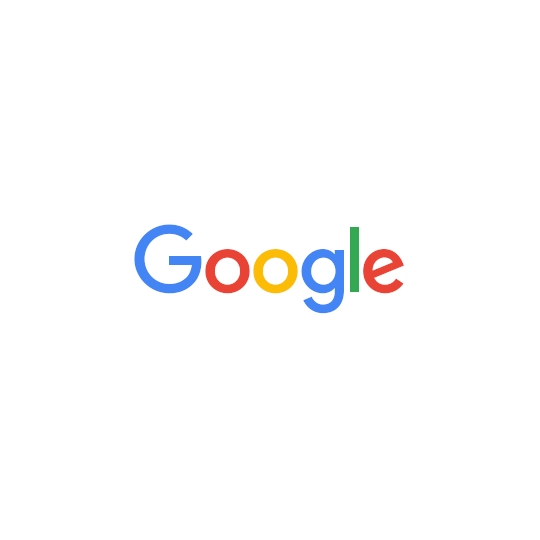
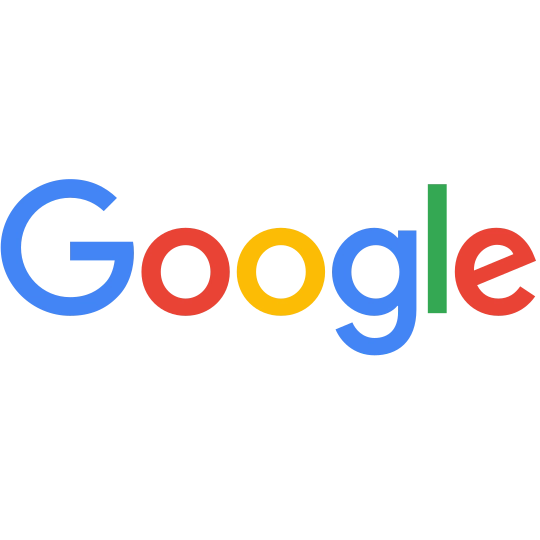
images unification

Changed region(s): [[0.0, 0.3259, 1.0, 0.6815]]

diff --git a/index.html b/index.html
@@ -46,7 +46,7 @@
           <picture>
             <source type="image/webp" srcset="./images/career-gcp.webp">
             <source type="image/png" srcset="./images/career-gcp.png">
-            <img src="./images/career-gcp.png" alt="Google Cloud Platform logo" />
+            <img src="./images/career-gcp.png" alt="Google Cloud Platform logo" class="padded"/>
           </picture>
         </div>
         <div class="col-md-8 career-description">
@@ -58,7 +58,7 @@
             <small>December 2020</small>
           </h4>
           <p>
-            Google is an engineering company. Their cloud is built by engineers for engineers. That always be more appealing to me than even greatest set of features from other providers.
+            Google is an engineering company. Their cloud is built by engineers for engineers. That always will be more appealing to me than even greatest set of features from other providers.
           </p>
           <p>
             My cloud journey continues 🌊
@@ -71,7 +71,7 @@
           <picture>
             <source type="image/webp" srcset="./images/career-aws.webp">
             <source type="image/png" srcset="./images/career-aws.png">
-            <img src="./images/career-aws.png" alt="Amazon Web Services logo" />
+            <img src="./images/career-aws.png" alt="Amazon Web Services logo"  class="padded"/>
           </picture>
         </div>
         <div class="col-md-8 career-description">
@@ -130,7 +130,7 @@
           <picture>
             <source type="image/webp" srcset="./images/career-quantic.webp">
             <source type="image/png" srcset="./images/career-quantic.png">
-            <img src="./images/career-quantic.png" alt="Quantic School of Business and Technology logo" />
+            <img src="./images/career-quantic.png" alt="Quantic School of Business and Technology logo" class="padded"/>
           </picture>
         </div>
         <div class="col-md-8 career-description">
@@ -154,7 +154,7 @@
           <picture>
             <source type="image/webp" srcset="./images/career-scrumorg.webp">
             <source type="image/png" srcset="./images/career-scrumorg.png">
-            <img src="./images/career-scrumorg.png" alt="Scrum.org logo" />
+            <img src="./images/career-scrumorg.png" alt="Scrum.org logo"  class="padded"/>
           </picture>
         </div>
         <div class="col-md-8 career-description">
@@ -223,7 +223,7 @@
           <picture>
             <source type="image/webp" srcset="./images/career-braciaprzykawie.webp">
             <source type="image/png" srcset="./images/career-braciaprzykawie.png">
-            <img src="./images/career-braciaprzykawie.png" alt="Bracia przy kawie logo" />
+            <img src="./images/career-braciaprzykawie.png" alt="Bracia przy kawie logo"  class="padded"/>
           </picture>
         </div>
         <div class="col-md-8 career-description">
@@ -271,7 +271,7 @@
           </h4>
           <p>Software, infrastructure, IoT, communication, gathering and analysing data. Managed processes from initialisation through production to maintenance.</p>
           <p>
-            Created whole Smart Station from the scratch.👨🏻🔧</p>
+            Created new interactive kiosk from the scratch.👨🏻🔧</p>
           <ul class="hashtag-list">
             <li>#SmartCity</li>
             <li>#IoT</li>
@@ -288,7 +288,7 @@
           <picture>
             <source type="image/webp" srcset="./images/career-oktawave.webp">
             <source type="image/png" srcset="./images/career-oktawave.png">
-            <img src="./images/career-oktawave.png" alt="Oktawave logo" />
+            <img src="./images/career-oktawave.png" alt="Oktawave logo"/>
           </picture>
         </div>
         <div class="col-md-8 career-description">
@@ -331,7 +331,7 @@
           <picture>
             <source type="image/webp" srcset="./images/career-langlion.webp">
             <source type="image/png" srcset="./images/career-langlion.png">
-            <img src="./images/career-langlion.png" alt="LangLion logo" />
+            <img src="./images/career-langlion.png" alt="LangLion logo" class="padded"/>
           </picture>
         </div>
         <div class="col-md-8 career-description">
@@ -392,7 +392,7 @@
           <picture>
             <source type="image/webp" srcset="./images/career-google.webp">
             <source type="image/png" srcset="./images/career-google.png">
-            <img src="./images/career-google.png" alt="Google logo" />
+            <img src="./images/career-google.png" alt="Google logo"  class="padded"/>
           </picture>
         </div>
         <div class="col-md-8 career-description">
@@ -423,7 +423,7 @@
           <picture>
             <source type="image/webp" srcset="./images/career-transcom.webp">
             <source type="image/png" srcset="./images/career-transcom.png">
-            <img src="./images/career-transcom.png" alt="Transcom logo" />
+            <img src="./images/career-transcom.png" alt="Transcom logo"  class="padded"/>
           </picture>
         </div>
         <div class="col-md-8 career-description">

diff --git a/style.css b/style.css
@@ -433,3 +433,8 @@ h4 {
 #tldr ul{
   text-align: left;
 }
+
+#career img.padded
+{
+  padding:1.5rem;
+}
